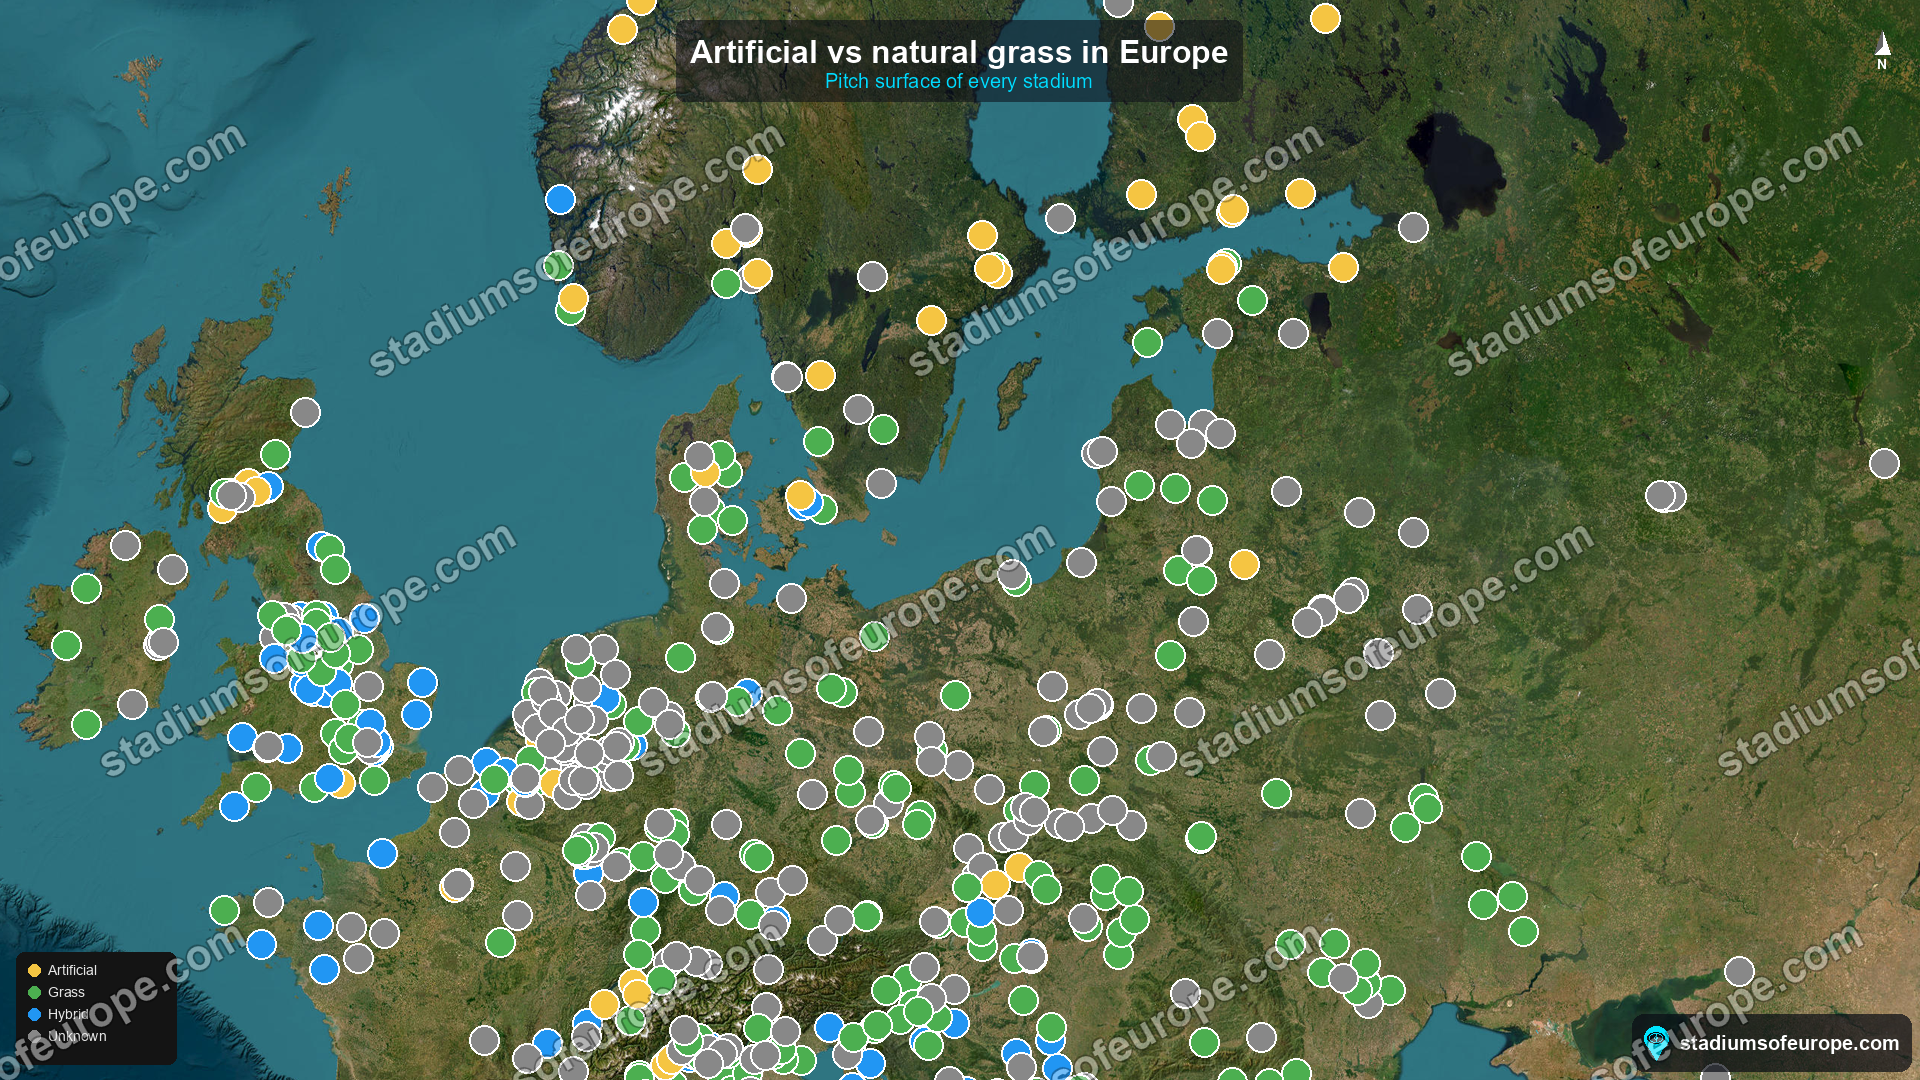
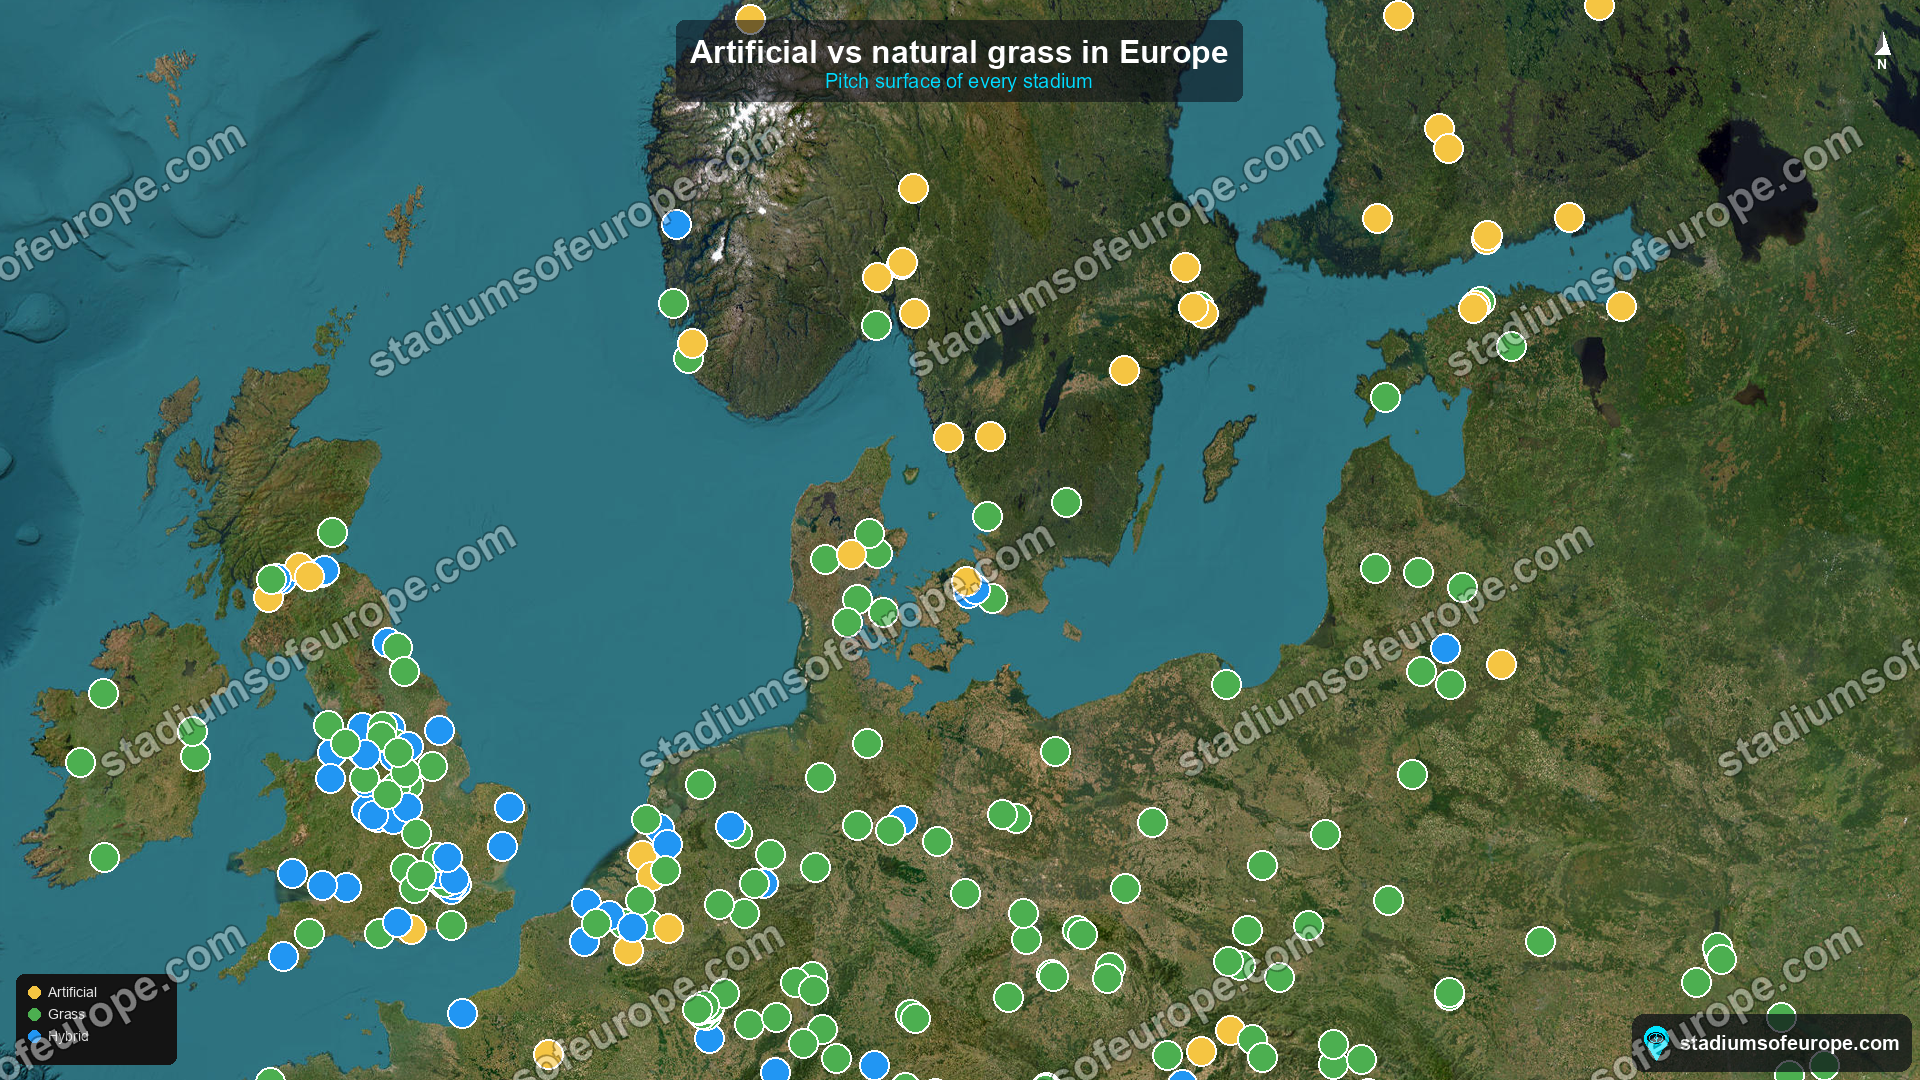
fix: drop 'Unknown' from surface map; add address to tournament JSON-LD location
- surface_known export param -> the Artificial-vs-grass hero excludes unrecorded-surface
  grounds, so no grey 'Unknown' dots or legend entry (clearer image).
- Tournament SportsEvent JSON-LD: every location now emits an address with addressCountry
  (uses city, else the development country), fixing GSC "Missing field 'address'".

diff --git a/italianstadia/italiastadiaapp/templates/tournament_detail.html b/italianstadia/italiastadiaapp/templates/tournament_detail.html
@@ -431,8 +431,8 @@
   "location": [
     {% for v in venues %}{
       "@type": "StadiumOrArena",
-      "name": "{{ v.name|escapejs }}"{% if v.city %},
-      "address": {"@type": "PostalAddress", "addressLocality": "{{ v.city.name|escapejs }}"{% if v.city.country %}, "addressCountry": "{{ v.city.country|escapejs }}"{% endif %}}{% endif %}{% if v.capacity %},
+      "name": "{{ v.name|escapejs }}",
+      "address": {"@type": "PostalAddress"{% if v.city %}, "addressLocality": "{{ v.city.name|escapejs }}"{% endif %}, "addressCountry": "{% if v.city and v.city.country %}{{ v.city.country|escapejs }}{% elif v.country_override %}{{ v.country_override|escapejs }}{% else %}Europe{% endif %}"}{% if v.capacity %},
       "maximumAttendeeCapacity": {{ v.capacity }}{% endif %}
     }{% if not forloop.last %},{% endif %}{% endfor %}
   ]

diff --git a/italianstadia/italiastadiaapp/views.py b/italianstadia/italiastadiaapp/views.py
@@ -1909,6 +1909,7 @@ def _parse_export_params(request):
         "national":   national,
         "national_only": national_only,
         "no_badges":  request.GET.get("no_badges", "0") == "1",
+        "surface_known": request.GET.get("surface_known", "0") == "1",
     }
 
 
@@ -1917,6 +1918,8 @@ def _get_export_stadiums(params):
     qs = Stadium.objects.select_related("city").prefetch_related("teams__league__country")
     if params["surface"]:
         qs = qs.filter(surface=params["surface"])
+    if params.get("surface_known"):
+        qs = qs.exclude(surface__isnull=True).exclude(surface="")
     if params["country"]:
         qs = qs.filter(city__country=params["country"])
     if params["league"]:

diff --git a/italianstadia/italiastadiaapp/management/commands/generate_insight_maps.py b/italianstadia/italiastadiaapp/management/commands/generate_insight_maps.py
@@ -31,8 +31,9 @@ class Command(BaseCommand):
             "subtitle": "Each country's main national-team venue",
         },
         "surface": {
-            "color_by": "surface", "no_badges": "1", "style_key": "satellite",
-            "size_key": "landscape", "labels": "0", "legend": "1", "north": "1",
+            "color_by": "surface", "no_badges": "1", "surface_known": "1",
+            "style_key": "satellite", "size_key": "landscape",
+            "labels": "0", "legend": "1", "north": "1",
             "title": "Artificial vs natural grass in Europe",
             "subtitle": "Pitch surface of every stadium",
         },
